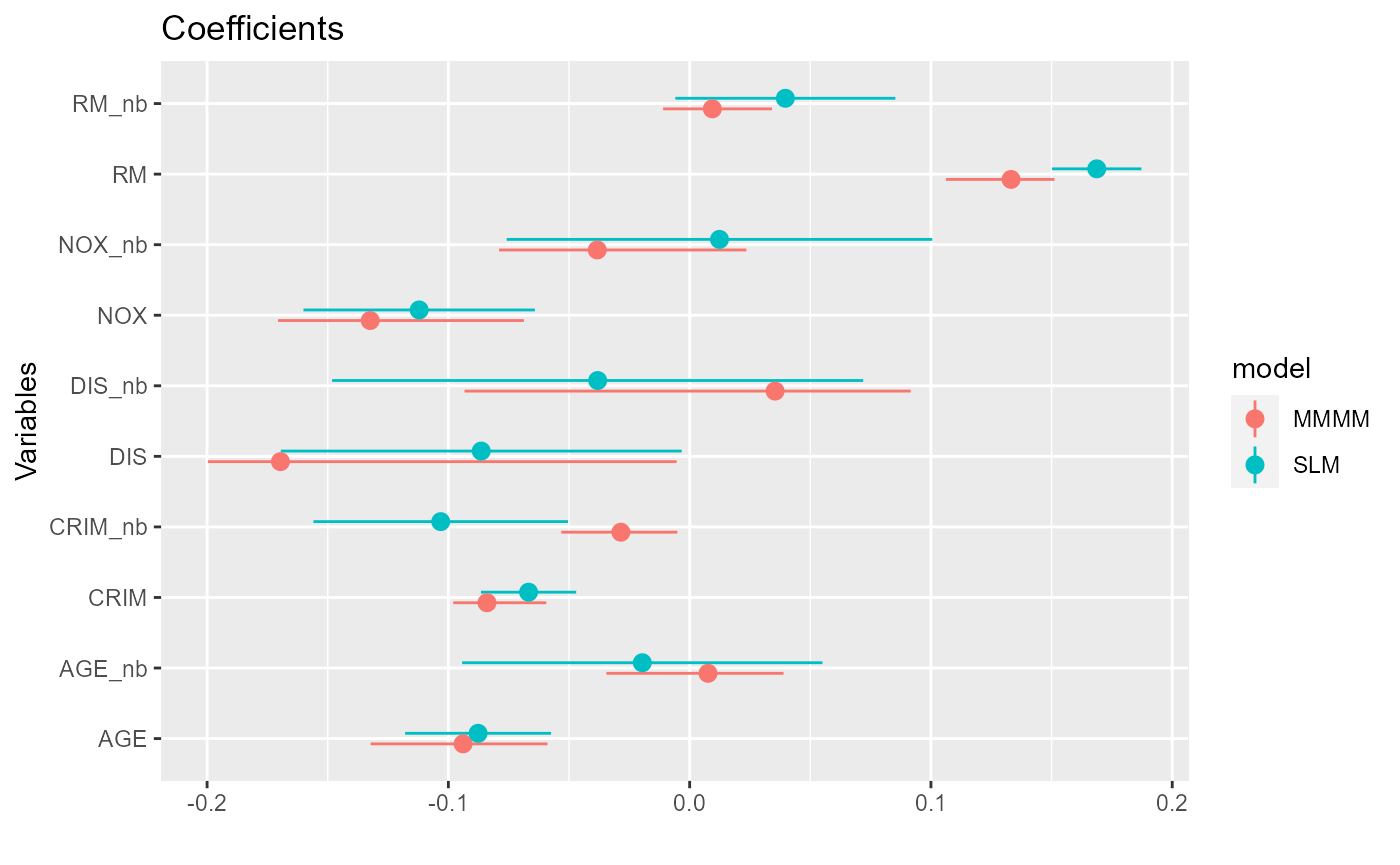
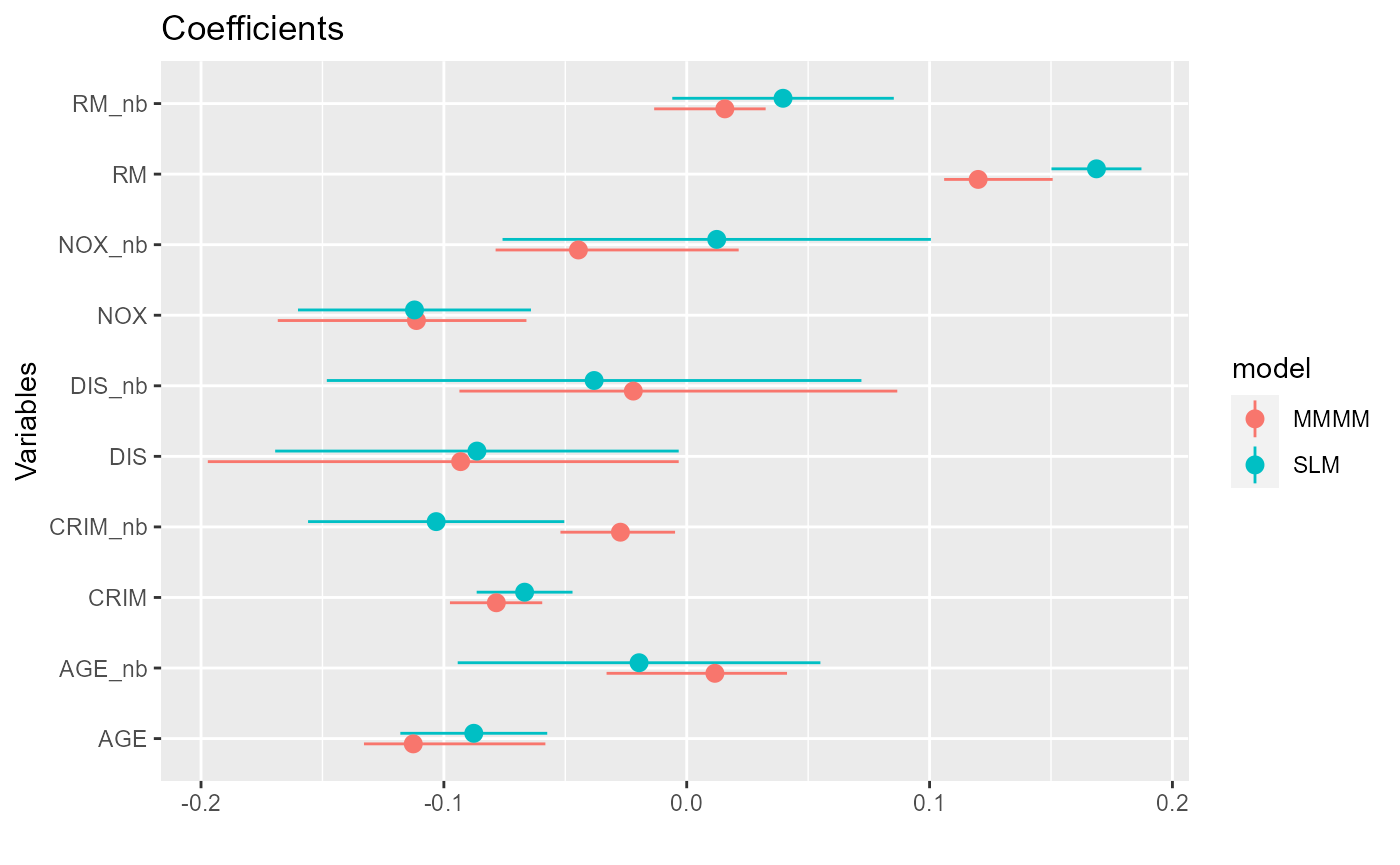
Website update

diff --git a/docs/articles/examples.html b/docs/articles/examples.html
@@ -277,7 +277,7 @@
 <p><strong>Results</strong>:</p>
 <ol style="list-style-type: decimal">
 <li><p>The spatial error model estimates that after conditioning on those five covariates, the residual is still spatially correlated, as <span class="math inline">\(\lambda=0.84\)</span>.</p></li>
-<li><p>The spatial lag model estimates an exogenous spatial effect for each of the considered covariates. The spatial effect of air quality, for instance, is estimate to be $_{WX}=0.09. That is, the home values of a given neighborhood (and given air quality) increase in value if the air quality of surrounding neighborhoods decreases.</p></li>
+<li><p>The spatial lag model estimates an exogenous spatial effect for each of the considered covariates. The spatial effect of air quality, for instance, is estimate to be <span class="math inline">\(\beta_{WX}=0.09\)</span>. That is, the home values of a given neighborhood (and given air quality) increase in value if the air quality of surrounding neighborhoods decreases.</p></li>
 <li><p>The spatial autoregessive (SAR) model estimates a endogenous spatial effect of <span class="math inline">\(\rho=0.67\)</span>. That is, the SAR summarizes the spatial dependency in one coefficient.</p></li>
 </ol>
 <div id="the-mmmm-for-spatial-analysis" class="section level4">
@@ -349,15 +349,15 @@
 
 <span class="va">mod.rmm1</span><span class="op">$</span><span class="va">reg.table</span>
 <span class="co">#&gt;          variable coefficients     sd      lb      ub    ppp</span>
-<span class="co">#&gt; b.l2[1]        X0       3.0392 0.3300  2.9868  3.0701 0.0004</span>
-<span class="co">#&gt; b.l2[2]       NOX      -0.1324 0.2498 -0.1774 -0.0826 0.0022</span>
-<span class="co">#&gt; b.l2[3]      CRIM      -0.0764 0.3549 -0.0998 -0.0617 0.0022</span>
-<span class="co">#&gt; b.l2[4]        RM       0.1394 0.2907  0.1066  0.1522 0.0007</span>
-<span class="co">#&gt; b.l2[5]       DIS      -0.0905 0.4350 -0.1458 -0.0293 0.0022</span>
-<span class="co">#&gt; b.l2[6]       AGE      -0.0954 0.1988 -0.1341 -0.0622 0.0015</span>
-<span class="co">#&gt; sigma.l1 sigma.l1       0.4697 0.9396  0.3868  0.4887     NA</span>
-<span class="co">#&gt; sigma.l2 sigma.l2       0.2257 1.9091  0.1350  0.1645     NA</span>
-<span class="co">#&gt; DIC           DIC   36792.8731     NA      NA      NA     NA</span>
+<span class="co">#&gt; b.l2[1]        X0       3.0321 0.2015  2.9881  3.0726 0.0004</span>
+<span class="co">#&gt; b.l2[2]       NOX      -0.1399 0.3038 -0.1797 -0.0829 0.0011</span>
+<span class="co">#&gt; b.l2[3]      CRIM      -0.0789 0.3826 -0.0996 -0.0616 0.0019</span>
+<span class="co">#&gt; b.l2[4]        RM       0.1331 0.3464  0.1065  0.1514 0.0007</span>
+<span class="co">#&gt; b.l2[5]       DIS      -0.1105 0.8414 -0.1513 -0.0299 0.0033</span>
+<span class="co">#&gt; b.l2[6]       AGE      -0.1064 0.3776 -0.1357 -0.0615 0.0015</span>
+<span class="co">#&gt; sigma.l1 sigma.l1       0.4453 0.2864  0.3865  0.4888     NA</span>
+<span class="co">#&gt; sigma.l2 sigma.l2       0.2193 1.8668  0.1345  0.1647     NA</span>
+<span class="co">#&gt; DIC           DIC   32177.7906     NA      NA      NA     NA</span>
 
 <span class="co"># Spatial fixed effects + spatial random effect:</span>
 <span class="va">mod.rmm2</span> <span class="op">&lt;-</span>
@@ -381,20 +381,20 @@
 <span class="co">#&gt; Initializing model</span>
 <span class="va">mod.rmm2</span><span class="op">$</span><span class="va">reg.table</span>
 <span class="co">#&gt;          variable coefficients     sd      lb      ub    ppp</span>
-<span class="co">#&gt; b.l1[1]    NOX_nb      -0.0399 1.0378 -0.0794  0.0234 0.1400</span>
-<span class="co">#&gt; b.l1[2]   CRIM_nb      -0.0277 0.2616 -0.0541 -0.0068 0.0067</span>
-<span class="co">#&gt; b.l1[3]     RM_nb       0.0145 0.2704 -0.0121  0.0337 0.1756</span>
-<span class="co">#&gt; b.l1[4]    DIS_nb      -0.0078 0.8549 -0.0933  0.0807 0.4467</span>
-<span class="co">#&gt; b.l1[5]    AGE_nb       0.0031 0.2954 -0.0350  0.0399 0.4485</span>
-<span class="co">#&gt; b.l2[1]        X0       3.0347 0.3127  2.9883  3.0706 0.0004</span>
-<span class="co">#&gt; b.l2[2]       NOX      -0.1233 0.6925 -0.1682 -0.0692 0.0030</span>
-<span class="co">#&gt; b.l2[3]      CRIM      -0.0734 0.2094 -0.0973 -0.0594 0.0026</span>
-<span class="co">#&gt; b.l2[4]        RM       0.1345 0.2985  0.1049  0.1515 0.0022</span>
-<span class="co">#&gt; b.l2[5]       DIS      -0.1023 0.2574 -0.1938 -0.0074 0.0156</span>
-<span class="co">#&gt; b.l2[6]       AGE      -0.0809 0.5005 -0.1313 -0.0568 0.0030</span>
-<span class="co">#&gt; sigma.l1 sigma.l1       0.4462 0.7618  0.3708  0.4727     NA</span>
-<span class="co">#&gt; sigma.l2 sigma.l2       0.2304 1.9173  0.1373  0.1683     NA</span>
-<span class="co">#&gt; DIC           DIC   38317.7495     NA      NA      NA     NA</span>
+<span class="co">#&gt; b.l1[1]    NOX_nb      -0.0446 0.5878 -0.0787  0.0214 0.1356</span>
+<span class="co">#&gt; b.l1[2]   CRIM_nb      -0.0273 0.2136 -0.0520 -0.0048 0.0115</span>
+<span class="co">#&gt; b.l1[3]     RM_nb       0.0157 0.2733 -0.0134  0.0325 0.1915</span>
+<span class="co">#&gt; b.l1[4]    DIS_nb      -0.0220 0.8619 -0.0936  0.0867 0.4541</span>
+<span class="co">#&gt; b.l1[5]    AGE_nb       0.0116 0.2533 -0.0330  0.0413 0.4326</span>
+<span class="co">#&gt; b.l2[1]        X0       3.0219 0.5132  2.9882  3.0697 0.0007</span>
+<span class="co">#&gt; b.l2[2]       NOX      -0.1113 1.0844 -0.1684 -0.0660 0.0011</span>
+<span class="co">#&gt; b.l2[3]      CRIM      -0.0784 0.1892 -0.0975 -0.0595 0.0015</span>
+<span class="co">#&gt; b.l2[4]        RM       0.1200 0.4808  0.1060  0.1507 0.0015</span>
+<span class="co">#&gt; b.l2[5]       DIS      -0.0931 0.5252 -0.1972 -0.0033 0.0222</span>
+<span class="co">#&gt; b.l2[6]       AGE      -0.1126 0.6765 -0.1329 -0.0582 0.0011</span>
+<span class="co">#&gt; sigma.l1 sigma.l1       0.4454 0.7051  0.3726  0.4724     NA</span>
+<span class="co">#&gt; sigma.l2 sigma.l2       0.2338 2.0130  0.1368  0.1674     NA</span>
+<span class="co">#&gt; DIC           DIC   38215.1477     NA      NA      NA     NA</span>
 
 <span class="co"># Calculate spatial correlation in the residual</span>
 <span class="va">getLambda</span> <span class="op">&lt;-</span> <span class="kw">function</span><span class="op">(</span><span class="va">x</span><span class="op">)</span> <span class="op">{</span>
@@ -404,19 +404,16 @@
 <span class="op">}</span>
 
 <span class="op">(</span><span class="va">lambda1</span> <span class="op">&lt;-</span> <span class="fu">getLambda</span><span class="op">(</span><span class="va">mod.rmm1</span><span class="op">)</span><span class="op">)</span>
-<span class="co">#&gt; [1] 0.8124144</span>
+<span class="co">#&gt; [1] 0.8048072</span>
 <span class="op">(</span><span class="va">lambda2</span> <span class="op">&lt;-</span> <span class="fu">getLambda</span><span class="op">(</span><span class="va">mod.rmm2</span><span class="op">)</span><span class="op">)</span>
-<span class="co">#&gt; [1] 0.7894978</span></code></pre></div>
-<p>Lets look at the <code><a href="../reference/rmm.html">rmm()</a></code> function in more detail.</p>
-<div class="sourceCode" id="cb7"><pre class="downlit sourceCode r">
-<code class="sourceCode R"><span class="op">?</span><span class="va">rmm</span></code></pre></div>
-<div class="figure">
-<img src="examples_files/rmm-help.jpg" style="width:75.0%" alt=""><p class="caption">rmm helpfile</p>
-</div>
+<span class="co">#&gt; [1] 0.7839802</span></code></pre></div>
+<p>Lets look at the <code><a href="../reference/rmm.html">rmm()</a></code> function in more detail by typing <code><a href="../reference/rmm.html">?rmm</a></code>:</p>
+<p><img src="examples_files/rmm-help.jpg" style="width:75.0%"></p>
+<p><strong>The formula object</strong></p>
 <p>The most important part is the <code>formula</code> object, which is our case looks like this: <code>lnCMEDV ~ NOX + CRIM + RM + DIS + AGE + mm(id(tid, tid_nb), mmc(NOX_nb + CRIM_nb + RM_nb + DIS_nb + AGE_nb), mmw(w ~ 1/offset(n), constraint=1))</code></p>
 <p>The only change compared to a <code><a href="https://rdrr.io/r/stats/lm.html" class="external-link">lm()</a></code> formula is the <code>mm()</code> container. Within this container, we specify 3 containers, <code>ids()</code> for the ids, <code>mmc()</code> for the considered covariates, and <code>mmw()</code> to endogenize the weight function. Here <code>w ~ 1/offset(n)</code> is specified, which implements the row-standardized weight.</p>
 <p>The combination of spatial lag and spatial error model can also be estimated in the spatial regression framework. Let us do that and compare the estimates:</p>
-<div class="sourceCode" id="cb8"><pre class="downlit sourceCode r">
+<div class="sourceCode" id="cb7"><pre class="downlit sourceCode r">
 <code class="sourceCode R">
 <span class="co"># Exogenous + residual spatial effect (combination of spatial lag model and spatial error model):  </span>
 <span class="va">mod2</span> <span class="op">&lt;-</span> <span class="fu"><a href="https://rdrr.io/pkg/spdep/man/spdep-deprecated.html" class="external-link">errorsarlm</a></span><span class="op">(</span><span class="va">lnCMEDV</span> <span class="op">~</span> <span class="va">NOX</span> <span class="op">+</span> <span class="va">CRIM</span> <span class="op">+</span> <span class="va">RM</span> <span class="op">+</span> <span class="va">DIS</span> <span class="op">+</span> <span class="va">AGE</span>,
@@ -480,14 +477,14 @@
   <span class="fu"><a href="https://ggplot2.tidyverse.org/reference/geom_point.html" class="external-link">geom_point</a></span><span class="op">(</span>position<span class="op">=</span><span class="fu"><a href="https://ggplot2.tidyverse.org/reference/position_dodge.html" class="external-link">position_dodge</a></span><span class="op">(</span>width<span class="op">=</span><span class="fl">0.3</span><span class="op">)</span><span class="op">)</span><span class="op">+</span>
   <span class="fu"><a href="https://ggplot2.tidyverse.org/reference/geom_linerange.html" class="external-link">geom_pointrange</a></span><span class="op">(</span><span class="fu"><a href="https://ggplot2.tidyverse.org/reference/aes.html" class="external-link">aes</a></span><span class="op">(</span>ymin <span class="op">=</span> <span class="va">lb</span>, ymax <span class="op">=</span> <span class="va">ub</span><span class="op">)</span>, position<span class="op">=</span><span class="fu"><a href="https://ggplot2.tidyverse.org/reference/position_dodge.html" class="external-link">position_dodge</a></span><span class="op">(</span>width<span class="op">=</span><span class="fl">0.3</span><span class="op">)</span><span class="op">)</span><span class="op">+</span>
   <span class="fu"><a href="https://ggplot2.tidyverse.org/reference/labs.html" class="external-link">labs</a></span><span class="op">(</span>title <span class="op">=</span> <span class="st">"Coefficients"</span>, x <span class="op">=</span> <span class="st">"Variables"</span>, y<span class="op">=</span><span class="st">""</span><span class="op">)</span> <span class="op">+</span> <span class="fu"><a href="https://ggplot2.tidyverse.org/reference/coord_flip.html" class="external-link">coord_flip</a></span><span class="op">(</span><span class="op">)</span></code></pre></div>
-<p><img src="examples_files/figure-html/unnamed-chunk-8-1.png" width="700"></p>
+<p><img src="examples_files/figure-html/unnamed-chunk-7-1.png" width="700"></p>
 <p>The estimates are similar but not identical. This is due to the different estimation algorithm (maximum likelihood vs Bayesian MCMC) and because the models are not 100% identical.</p>
 <p>The advantage of <code>errorsarlm</code> is that estimation is faster and the errors are endogenous. So if this model is what you want, it’s probably best to estimate it with the <code>spatialreg</code> package.</p>
 <p><strong>Weight function regression</strong></p>
 <p>The MMMM, however, allows to make the weights a function of covariates. That is, instead of assuming a specific weighting regime, we can estimate whether the influence of a neighbor on a location depends on some covariates.</p>
 <p>For this example, I hypothesize that the weight of a neighbor in the total neighborhood effect depends on the similarity between neighbor and focal location, which is an idea I borrow from social network theory.</p>
 <p>I calculate <em>similarity</em> as the average absolute difference between a neighbor and the focal location on the six considered covariates.</p>
-<div class="sourceCode" id="cb9"><pre class="downlit sourceCode r">
+<div class="sourceCode" id="cb8"><pre class="downlit sourceCode r">
 <code class="sourceCode R"><span class="co"># Homogeneity of focal location to its neighbors </span>
 <span class="va">boston_df2</span> <span class="op">&lt;-</span> <span class="va">boston_df</span> <span class="op"><a href="https://magrittr.tidyverse.org/reference/pipe.html" class="external-link">%&gt;%</a></span> <span class="fu"><a href="https://dplyr.tidyverse.org/reference/mutate.html" class="external-link">mutate</a></span><span class="op">(</span>DIFF<span class="op">=</span><span class="fl">1</span><span class="op">/</span><span class="fl">6</span><span class="op">*</span><span class="fu"><a href="https://rdrr.io/r/base/MathFun.html" class="external-link">abs</a></span><span class="op">(</span><span class="va">NOX</span><span class="op">-</span><span class="va">NOX_nb</span><span class="op">)</span><span class="op">+</span><span class="fu"><a href="https://rdrr.io/r/base/MathFun.html" class="external-link">abs</a></span><span class="op">(</span><span class="va">CRIM</span><span class="op">-</span><span class="va">CRIM_nb</span><span class="op">)</span><span class="op">+</span><span class="fu"><a href="https://rdrr.io/r/base/MathFun.html" class="external-link">abs</a></span><span class="op">(</span><span class="va">RM</span><span class="op">-</span><span class="va">RM_nb</span><span class="op">)</span><span class="op">+</span><span class="fu"><a href="https://rdrr.io/r/base/MathFun.html" class="external-link">abs</a></span><span class="op">(</span><span class="va">DIS</span><span class="op">-</span><span class="va">DIS_nb</span><span class="op">)</span><span class="op">+</span><span class="fu"><a href="https://rdrr.io/r/base/MathFun.html" class="external-link">abs</a></span><span class="op">(</span><span class="va">AGE</span><span class="op">-</span><span class="va">AGE_nb</span><span class="op">)</span><span class="op">+</span><span class="fu"><a href="https://rdrr.io/r/base/MathFun.html" class="external-link">abs</a></span><span class="op">(</span><span class="va">LSTAT</span><span class="op">-</span><span class="va">LSTAT_nb</span><span class="op">)</span><span class="op">)</span> </code></pre></div>
 <p>The weight function is specified in the <code>mmw()</code> container. Any function that produces weights that are bounded can be specified here. Functions, such as <em>min, max, sum</em> etc., can also be included in the weight function. Here I consider the following functional form: <span class="math inline">\(w=\frac{1}{n^{exp(X\beta)}}\)</span>, where <span class="math inline">\(n\)</span> is the number of neighbors of location <span class="math inline">\(i\)</span>, and <span class="math inline">\(X\beta\)</span> are the covariates on which to base the weights on. The benefit of this function is that it is bounded between 0 and 1 and if <span class="math inline">\(X\beta=\boldsymbol{0}\)</span>, the weights reduce to <span class="math inline">\(w=\frac{1}{n}\)</span>, which are the default row-standardized weights.</p>
@@ -501,7 +498,7 @@
 </ul>
 <p>Both constrains identify the model but have different substantive interpretations.</p>
 <p>Here I allow the weights to differ within and across location:</p>
-<div class="sourceCode" id="cb10"><pre class="downlit sourceCode r">
+<div class="sourceCode" id="cb9"><pre class="downlit sourceCode r">
 <code class="sourceCode R"><span class="co"># Spatial fixed effects + spatial random effect with "endogenized" weights:</span>
 <span class="va">mod.rmm3</span> <span class="op">&lt;-</span>
   <span class="fu"><a href="../reference/rmm.html">rmm</a></span><span class="op">(</span><span class="va">lnCMEDV</span> <span class="op">~</span>
@@ -525,45 +522,48 @@
 
 <span class="va">mod.rmm3</span><span class="op">$</span><span class="va">reg.table</span>
 <span class="co">#&gt;          variable coefficients      sd        lb      ub    ppp</span>
-<span class="co">#&gt; b.l1[1]    NOX_nb      -0.0026  0.0248   -0.0500  0.0466 0.4526</span>
-<span class="co">#&gt; b.l1[2]   CRIM_nb      -0.0907  0.0639   -0.1880  0.0031 0.0437</span>
-<span class="co">#&gt; b.l1[3]     RM_nb       0.0294  0.0195   -0.0049  0.0656 0.0581</span>
-<span class="co">#&gt; b.l1[4]    DIS_nb       0.0141  0.0424   -0.0723  0.0878 0.3522</span>
-<span class="co">#&gt; b.l1[5]    AGE_nb      -0.0038  0.0207   -0.0444  0.0349 0.4389</span>
-<span class="co">#&gt; b.l2[1]        X0       3.0130  0.0164    2.9782  3.0443 0.0000</span>
-<span class="co">#&gt; b.l2[2]       NOX      -0.0922  0.0282   -0.1458 -0.0373 0.0004</span>
-<span class="co">#&gt; b.l2[3]      CRIM      -0.1012  0.0190   -0.1314 -0.0627 0.0000</span>
-<span class="co">#&gt; b.l2[4]        RM       0.1542  0.0129    0.1294  0.1793 0.0000</span>
-<span class="co">#&gt; b.l2[5]       DIS      -0.0930  0.0443   -0.1705  0.0005 0.0263</span>
-<span class="co">#&gt; b.l2[6]       AGE      -0.0789  0.0231   -0.1214 -0.0323 0.0000</span>
-<span class="co">#&gt; b.w[2]       DIFF     -45.3288 54.9796 -192.7200  0.2555 0.3333</span>
-<span class="co">#&gt; sigma.l1 sigma.l1       0.1930  0.1405    0.0136  0.4183     NA</span>
-<span class="co">#&gt; sigma.l2 sigma.l2       0.2149  0.0537    0.1301  0.2682     NA</span>
-<span class="co">#&gt; DIC           DIC     160.7729      NA        NA      NA     NA</span></code></pre></div>
+<span class="co">#&gt; b.l1[1]    NOX_nb      -0.0098  0.0245   -0.0583  0.0406 0.3363</span>
+<span class="co">#&gt; b.l1[2]   CRIM_nb      -0.0506  0.0622   -0.1795  0.0054 0.0956</span>
+<span class="co">#&gt; b.l1[3]     RM_nb       0.0201  0.0182   -0.0061  0.0623 0.0974</span>
+<span class="co">#&gt; b.l1[4]    DIS_nb      -0.0040  0.0437   -0.0873  0.0829 0.4463</span>
+<span class="co">#&gt; b.l1[5]    AGE_nb      -0.0014  0.0191   -0.0398  0.0341 0.4789</span>
+<span class="co">#&gt; b.l2[1]        X0       3.0094  0.0167    2.9758  3.0413 0.0000</span>
+<span class="co">#&gt; b.l2[2]       NOX      -0.1000  0.0269   -0.1506 -0.0462 0.0000</span>
+<span class="co">#&gt; b.l2[3]      CRIM      -0.0906  0.0196   -0.1290 -0.0580 0.0000</span>
+<span class="co">#&gt; b.l2[4]        RM       0.1524  0.0123    0.1289  0.1768 0.0000</span>
+<span class="co">#&gt; b.l2[5]       DIS      -0.0731  0.0466   -0.1631  0.0153 0.0530</span>
+<span class="co">#&gt; b.l2[6]       AGE      -0.0867  0.0219   -0.1264 -0.0395 0.0004</span>
+<span class="co">#&gt; b.w[2]       DIFF     -23.0008 43.0749 -148.8816  0.2729 0.6548</span>
+<span class="co">#&gt; sigma.l1 sigma.l1       0.2856  0.1405    0.0259  0.4282     NA</span>
+<span class="co">#&gt; sigma.l2 sigma.l2       0.1786  0.0541    0.1281  0.2662     NA</span>
+<span class="co">#&gt; DIC           DIC    2117.5613      NA        NA      NA     NA</span></code></pre></div>
 <p>We find that the difference between location and neighbors significantly impacts the weights. However, opposite to the homophily idea. Those neighbors that are very different to the focal location in terms of air quality, level of crime, etc. have a stronger influence on the home values in the focal neighborhood.</p>
 <p>Such a insight is impossible to generate with the conventional spatial regression package. Let us have a look at the weight estimates:</p>
-<div class="sourceCode" id="cb11"><pre class="downlit sourceCode r">
+<div class="sourceCode" id="cb10"><pre class="downlit sourceCode r">
 <code class="sourceCode R">
 <span class="fu"><a href="https://rdrr.io/r/utils/head.html" class="external-link">head</a></span><span class="op">(</span><span class="fu"><a href="https://rdrr.io/r/base/data.frame.html" class="external-link">data.frame</a></span><span class="op">(</span><span class="va">mod.rmm3</span><span class="op">$</span><span class="va">w</span>, sum<span class="op">=</span><span class="fu"><a href="https://rdrr.io/pkg/Matrix/man/colSums.html" class="external-link">rowSums</a></span><span class="op">(</span><span class="va">mod.rmm3</span><span class="op">$</span><span class="va">w</span>, na.rm <span class="op">=</span> <span class="cn">T</span><span class="op">)</span><span class="op">)</span><span class="op">)</span>
 <span class="co">#&gt;               W1     W2     W3     W4     W5     W6     W7     W8     W9 W10</span>
-<span class="co">#&gt; L2 unit 1 0.2216 0.2084 0.2165 0.2219 0.0574 0.1133 0.1313 0.1828     NA  NA</span>
-<span class="co">#&gt; L2 unit 2 0.2595 0.2454 0.2399 0.2318     NA     NA     NA     NA     NA  NA</span>
-<span class="co">#&gt; L2 unit 3 0.2084 0.2131 0.2057 0.2140 0.0438 0.0456 0.1057 0.1154     NA  NA</span>
-<span class="co">#&gt; L2 unit 4 0.2399 0.2324 0.2495 0.2405     NA     NA     NA     NA     NA  NA</span>
-<span class="co">#&gt; L2 unit 5 0.2108 0.2122 0.2126 0.0374 0.0820 0.0914 0.0382 0.0687 0.0754  NA</span>
-<span class="co">#&gt; L2 unit 6 0.2275 0.2132 0.2195 0.2269 0.2327 0.2209     NA     NA     NA  NA</span>
+<span class="co">#&gt; L2 unit 1 0.1620 0.1637 0.1500 0.1640 0.1130 0.2226 0.2580 0.1527     NA  NA</span>
+<span class="co">#&gt; L2 unit 2 0.2359 0.2066 0.1957 0.1798     NA     NA     NA     NA     NA  NA</span>
+<span class="co">#&gt; L2 unit 3 0.1637 0.1431 0.1283 0.1449 0.0861 0.0898 0.2077 0.2267     NA  NA</span>
+<span class="co">#&gt; L2 unit 4 0.1957 0.1810 0.2148 0.1968     NA     NA     NA     NA     NA  NA</span>
+<span class="co">#&gt; L2 unit 5 0.1385 0.1414 0.1423 0.0734 0.1612 0.1796 0.0751 0.1350 0.1483  NA</span>
+<span class="co">#&gt; L2 unit 6 0.1715 0.1432 0.1555 0.1704 0.1924 0.1583     NA     NA     NA  NA</span>
 <span class="co">#&gt;           W11 W12 W13 W14 W15    sum</span>
-<span class="co">#&gt; L2 unit 1  NA  NA  NA  NA  NA 1.3532</span>
-<span class="co">#&gt; L2 unit 2  NA  NA  NA  NA  NA 0.9766</span>
-<span class="co">#&gt; L2 unit 3  NA  NA  NA  NA  NA 1.1517</span>
-<span class="co">#&gt; L2 unit 4  NA  NA  NA  NA  NA 0.9623</span>
-<span class="co">#&gt; L2 unit 5  NA  NA  NA  NA  NA 1.0287</span>
-<span class="co">#&gt; L2 unit 6  NA  NA  NA  NA  NA 1.3407</span>
+<span class="co">#&gt; L2 unit 1  NA  NA  NA  NA  NA 1.3860</span>
+<span class="co">#&gt; L2 unit 2  NA  NA  NA  NA  NA 0.8180</span>
+<span class="co">#&gt; L2 unit 3  NA  NA  NA  NA  NA 1.1903</span>
+<span class="co">#&gt; L2 unit 4  NA  NA  NA  NA  NA 0.7883</span>
+<span class="co">#&gt; L2 unit 5  NA  NA  NA  NA  NA 1.1948</span>
+<span class="co">#&gt; L2 unit 6  NA  NA  NA  NA  NA 0.9913</span>
 
 <span class="fu"><a href="https://rdrr.io/r/base/sum.html" class="external-link">sum</a></span><span class="op">(</span><span class="fu"><a href="https://rdrr.io/pkg/Matrix/man/colSums.html" class="external-link">rowSums</a></span><span class="op">(</span><span class="va">mod.rmm3</span><span class="op">$</span><span class="va">w</span>, na.rm <span class="op">=</span> <span class="cn">T</span><span class="op">)</span><span class="op">)</span>
-<span class="co">#&gt; [1] 505.9987</span></code></pre></div>
-<p>end.</p>
-<p>To do: - Introduce predict() function - Compare predicitve performance</p>
+<span class="co">#&gt; [1] 505.9991</span></code></pre></div>
+<p>To do:</p>
+<ul>
+<li>Introduce predict() function</li>
+<li>Compare predicitve performance</li>
+</ul>
 </div>
 </div>
   </div>
